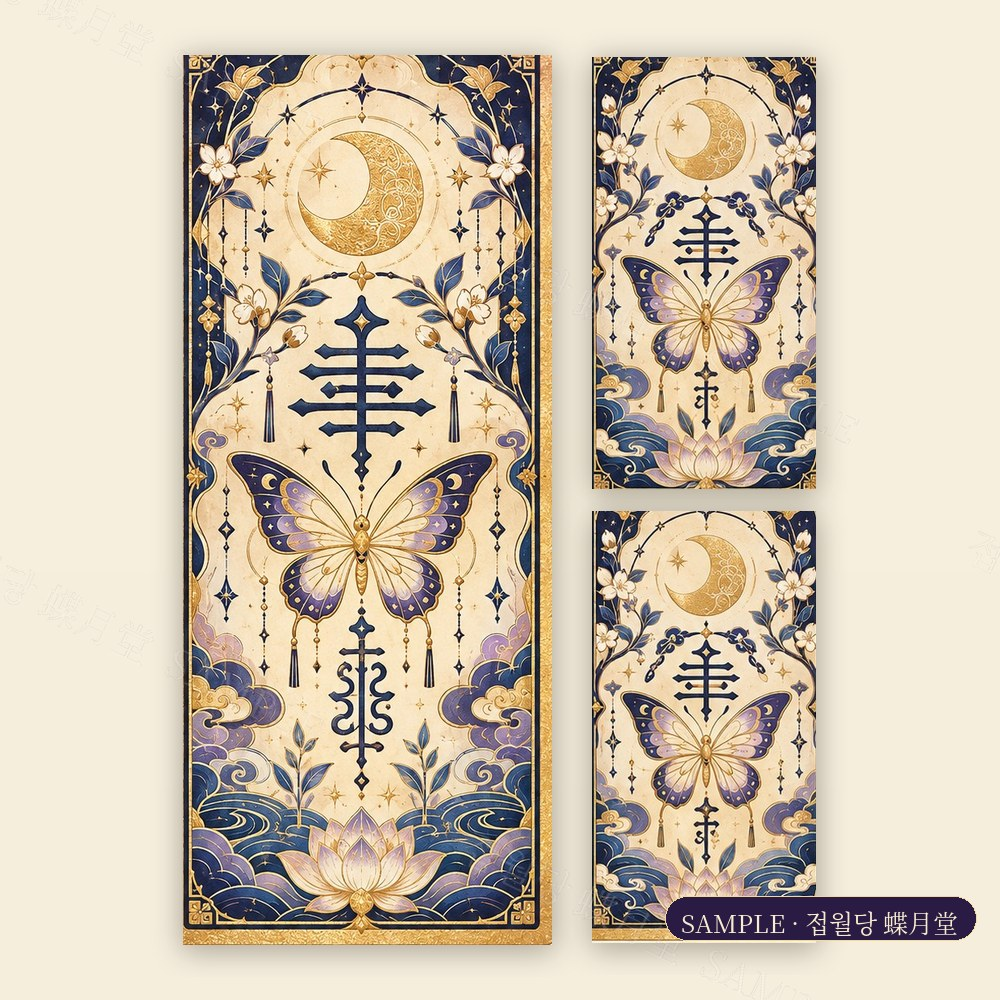
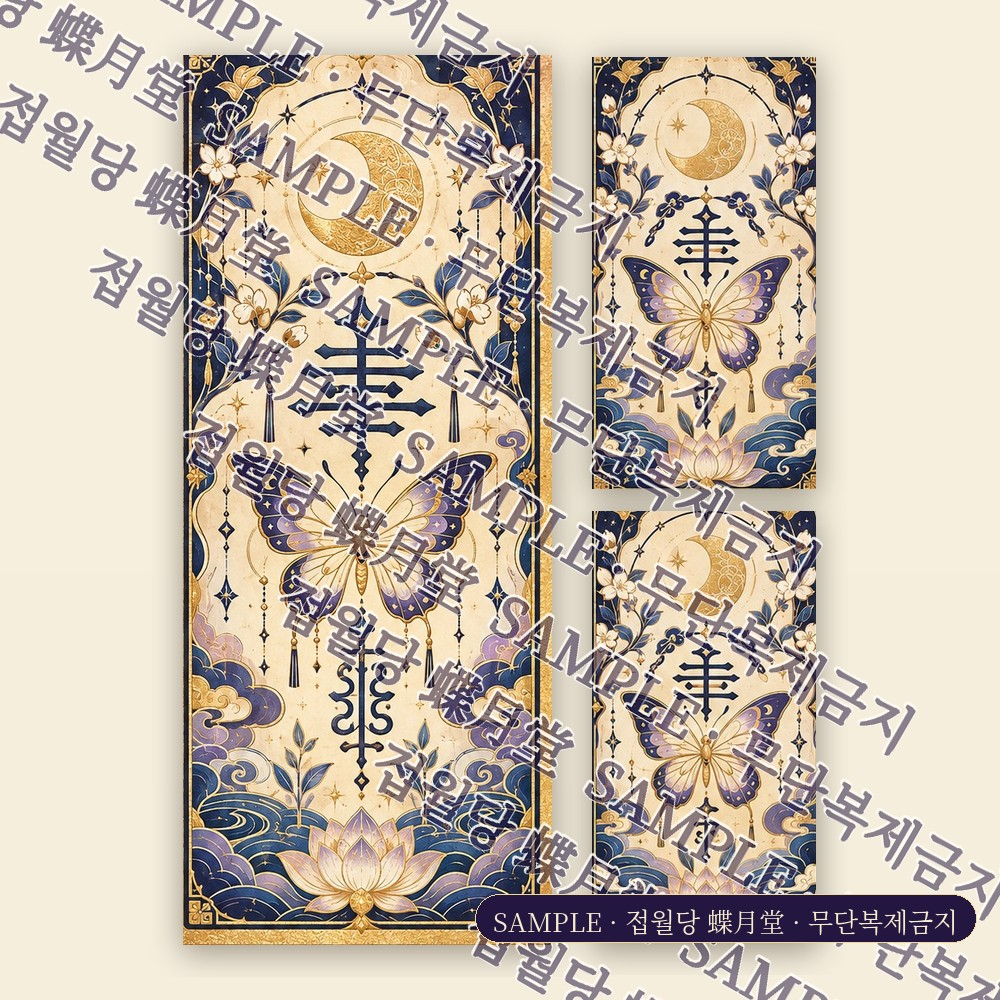
부적 이미지 교체 — 기원부적은 자체 제작 건강운 부적으로, 강력 대각 워터마크·캡처 방지 레이어 적용

diff --git a/shop/index.html b/shop/index.html
@@ -784,6 +784,13 @@ section[id],div[id].anchor,.fcard[id]{scroll-margin-top:calc(var(--hz) + 14px)}
   -webkit-touch-callout:none;
   -webkit-user-select:none;-moz-user-select:none;-ms-user-select:none;user-select:none;
   -webkit-user-drag:none;user-drag:none;
+  pointer-events:none;   /* 길게 누르기 '이미지 저장' 메뉴·드래그 차단 */
+}
+.tcard2__media,.pd__media,.plate--img{position:relative}
+.tguard{
+  position:absolute;inset:0;z-index:2;display:block;pointer-events:none;
+  -webkit-touch-callout:none;-webkit-user-select:none;user-select:none;
+  -webkit-user-drag:none;
 }
 
 .photo{width:100%;height:100%;overflow:hidden}
@@ -1414,7 +1421,8 @@ body:has(#doneView.is-open) .toast{bottom:112px}
     <div class="tshop" id="tShop" data-rev>
       <article class="tcard2" id="wishCard">
         <button class="tcard2__media" data-open="tal-wish-health" aria-label="기원부적 상세 보기">
-          <img src="assets/talisman/tal-sample.jpg" alt="접월당 기원부적 샘플" width="1000" height="1250" loading="lazy" draggable="false" data-protect="tal">
+          <img src="assets/talisman/tal-sample.jpg?v=2" alt="접월당 기원부적 샘플" width="1000" height="1000" loading="lazy" draggable="false" data-protect="tal">
+          <span class="tguard" aria-hidden="true"></span>
           <span class="tcard2__badge">선택형 · 14가지 기원</span>
         </button>
         <div class="tcard2__body">
@@ -1435,7 +1443,8 @@ body:has(#doneView.is-open) .toast{bottom:112px}
 
       <article class="tcard2" id="customCard">
         <button class="tcard2__media" data-open="tal-custom" aria-label="나만의 부적 상세 보기">
-          <img src="assets/talisman/tal-sample-custom.jpg" alt="나만의 부적 구성 샘플 — 큰 부적 1장과 지갑용 2장" width="1000" height="1250" loading="lazy" draggable="false" data-protect="tal">
+          <img src="assets/talisman/tal-sample-custom.jpg?v=2" alt="나만의 부적 구성 샘플 — 큰 부적 1장과 지갑용 2장" width="1000" height="1000" loading="lazy" draggable="false" data-protect="tal">
+          <span class="tguard" aria-hidden="true"></span>
           <span class="tcard2__badge tcard2__badge--gold">1:1 사주 맞춤</span>
         </button>
         <div class="tcard2__body">
@@ -1804,9 +1813,9 @@ const WISH_THEMES = [
 
 /* 사용자가 보낸 부적 샘플(3034 해설지 · 3032 인쇄 구성컷 · 3033 사용 안내)에서
    부적 그림만 잘라 만든 웹용 카드 이미지 — SAMPLE 워터마크 포함 */
-const TAL_IMG_SAMPLE = 'assets/talisman/tal-sample.jpg';
-const TAL_IMG_CUSTOM = 'assets/talisman/tal-sample-custom.jpg';
-const TAL_IMG_GUIDE  = 'assets/talisman/tal-sample-guide.jpg';
+const TAL_IMG_SAMPLE = 'assets/talisman/tal-sample.jpg?v=2';
+const TAL_IMG_CUSTOM = 'assets/talisman/tal-sample-custom.jpg?v=2';
+const TAL_IMG_GUIDE  = 'assets/talisman/tal-sample-guide.jpg?v=2';
 
 const TALISMANS = WISH_THEMES.map((t, i) => ({
   id:'tal-wish-' + t.key, no:String(i + 1).padStart(2, '0'), hanja:t.hanja,
@@ -1931,7 +1940,7 @@ function coverHTML(p, extra=''){
 }
 function plateHTML(p){
   if(p.image){
-    return `<div class="plate plate--img"><img src="${p.image}" alt="${p.name}" loading="lazy" width="800" height="800" draggable="false" data-protect="tal" style="position:absolute;inset:0;width:100%;height:100%;object-fit:cover"></div>`;
+    return `<div class="plate plate--img"><img src="${p.image}" alt="${p.name}" loading="lazy" width="1000" height="1000" draggable="false" data-protect="tal" style="position:absolute;inset:0;width:100%;height:100%;object-fit:cover"><span class="tguard" aria-hidden="true"></span></div>`;
   }
   return `<div class="plate">
       <div class="plate__medal"><i class="plate__rays"></i><span class="plate__hanja">${p.hanja}</span></div>
